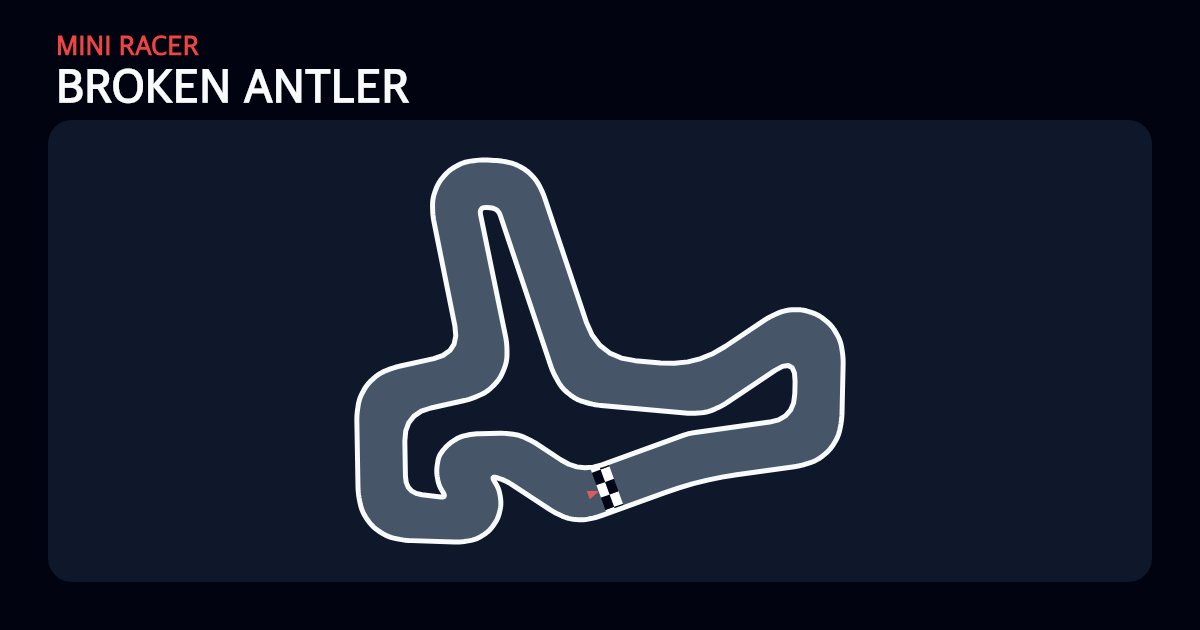
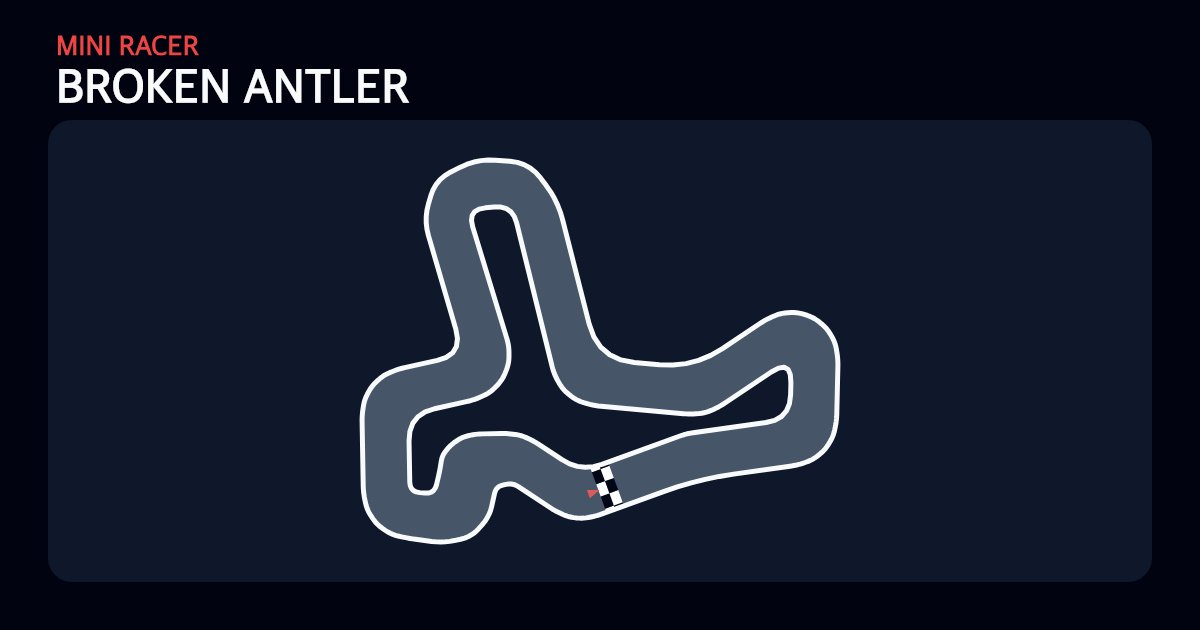
Reshape Broken Antler and Winding Road, and update seven medal rows.
- Broken Antler has simpler corners at its tip and near the start. Its lap
  time does not change, so its medal times stay. Its share picture is drawn
  again.
- Winding Road has rounder corners and two moved gates. Its share picture
  does not change.
- New medal times for Mountain Peak, Winding Road, Lightning Hook, Double
  Trouble, Twin Wings, Split Jaw and Crakow Boot. Twin Wings bronze is 12.99.
- Both tracks pass the Mapmaker track checks, all 18 runner bots finish a lap,
  and autopilot laps of 1 and 2 laps pass the server replay check.
- The track data test accepts the new shapes in its three hashes.

diff --git a/game/track/definitions/broken-antler.js b/game/track/definitions/broken-antler.js
@@ -5,7 +5,7 @@ export default {
     drawWidth: 3.85,
     lineSmoothing: 0.35,
     outer: [
-        Point(16.077, 30.628),
+        Point(16.448, 30.859),
         Point(19.957, 33.183),
         Point(21.039, 33.675),
         Point(22.221, 33.814),
@@ -25,17 +25,11 @@ export default {
         Point(37.336, 17.386),
         Point(31.412, 21.359),
         Point(23.513, 20.647),
-        Point(19.062, 7.37),
-        Point(18.536, 6.345),
-        Point(17.731, 5.521),
-        Point(16.717, 4.972),
-        Point(15.587, 4.748),
-        Point(14.015, 4.676),
-        Point(12.665, 4.86),
-        Point(11.468, 5.512),
-        Point(10.581, 6.547),
-        Point(10.119, 7.828),
-        Point(10.142, 9.191),
+        Point(20.176, 7.562),
+        Point(17.8, 4.413),
+        Point(13.496, 4.087),
+        Point(10.077, 5.82),
+        Point(9.105, 9.12),
         Point(12.367, 20.269),
         Point(7.015, 21.457),
         Point(5.801, 21.956),
@@ -47,17 +41,13 @@ export default {
         Point(5.22, 34.301),
         Point(6.421, 35.126),
         Point(7.842, 35.445),
-        Point(12.403, 35.586),
-        Point(13.63, 35.382),
-        Point(14.687, 34.725),
-        Point(15.413, 33.714),
-        Point(15.698, 32.503),
-        Point(15.5, 31.275),
-        Point(14.848, 30.215)
+        Point(10.698, 35.823),
+        Point(13.02, 35.335),
+        Point(14.527, 33.663),
+        Point(15.073, 31.179)
     ],
     inner: [
-        Point(11.248, 31.995),
-        Point(10.63, 30.998),
+        Point(9.982, 31.775),
         Point(10.429, 29.842),
         Point(10.625, 28.603),
         Point(11.332, 27.723),
@@ -79,8 +69,8 @@ export default {
         Point(21.75, 24.069),
         Point(20.592, 23.154),
         Point(19.863, 21.871),
-        Point(15.412, 8.594),
-        Point(13.882, 8.496),
+        Point(16.418, 7.931),
+        Point(12.709, 8.279),
         Point(16.142, 19.511),
         Point(16.148, 20.994),
         Point(15.594, 22.369),

diff --git a/tests/track-runtime-integrity.test.js b/tests/track-runtime-integrity.test.js
@@ -251,7 +251,9 @@ describe('track runtime integrity', () => {
         // include those shapes. They also include the reshapes of 2026-09-27: 12
         // Daily tracks, and Water Pistol in place of Gun Slinger, which was never live.
         // Hook Loop, Shark Fin, Twin Wings and Winding Road were reshaped again later
-        // on 2026-09-27, before they were ever a live Daily day.
+        // on 2026-09-27, before they were ever a live Daily day. On 2026-09-29,
+        // Broken Antler got simpler corners, and Winding Road got rounder corners
+        // and moved gates.
         const reshapedKeys = new Set(['doubleTrouble', 'monkeyWrench', 'sharkBite']);
         const addedKeys = new Set(catalogKeys.slice(catalogKeys.indexOf('puzzlePiece')));
         const withoutReshapedOrAdded = Object.fromEntries(
@@ -259,16 +261,16 @@ describe('track runtime integrity', () => {
                 .filter(([trackKey]) => !reshapedKeys.has(trackKey) && !addedKeys.has(trackKey)),
         );
         expect(hashTrackRegistry(withoutReshapedOrAdded)).toBe(
[2 lines of base64/hex data omitted]
         );
         const throughSharkBite = Object.fromEntries(
             Object.entries(TRACKS).filter(([trackKey]) => !addedKeys.has(trackKey)),
         );
         expect(hashTrackRegistry(throughSharkBite)).toBe(
[2 lines of base64/hex data omitted]
         );
         expect(hashTrackRegistry(TRACKS)).toBe(
[2 lines of base64/hex data omitted]
         );
     });
 

diff --git a/game/track/definitions/winding-road.js b/game/track/definitions/winding-road.js
@@ -1,7 +1,7 @@
 import { Point } from '../geometry.js';
 
 export default {
-    cornerRadius: 1.5,
+    cornerRadius: 3,
     drawWidth: 3.85,
     lineSmoothing: 0.35,
     outer: [
@@ -86,8 +86,8 @@ export default {
     startAngle: 0.071,
     checkpoints: [
         { p1: Point(69.752, 33.721), p2: Point(64.411, 33.406) },
-        { p1: Point(52.539, 33.408), p2: Point(53.226, 28.138) },
+        { p1: Point(50.635, 33.482), p2: Point(50.454, 28.135) },
         { p1: Point(40.196, 48.466), p2: Point(40.19, 43.116) },
-        { p1: Point(37.179, 24.916), p2: Point(41.247, 28.468) }
+        { p1: Point(37.01, 25.209), p2: Point(40.998, 28.754) }
     ]
 };
